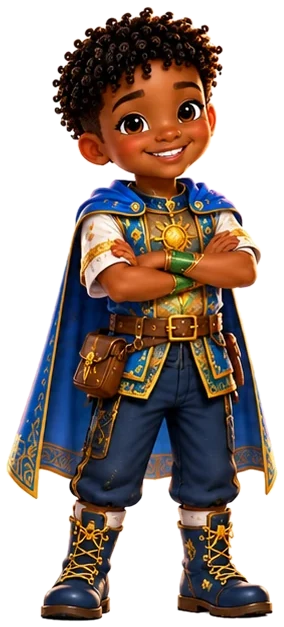
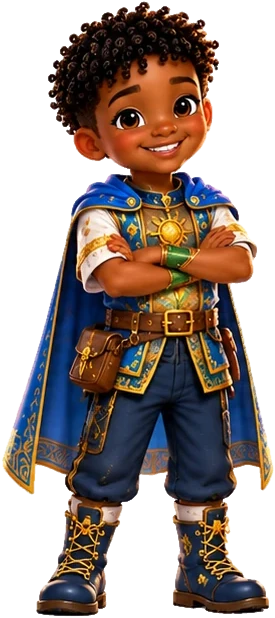
Characters: clean cutout edges; on-brand gold stage, nameplates, jewel cards

Changed region(s): [[0.0, 0.0, 1.0, 1.0], [0.3782, 0.5227, 0.4073, 0.5841], [0.4655, 0.4612, 0.4945, 0.4919]]

diff --git a/characters.html b/characters.html
@@ -18,7 +18,7 @@
 <link rel="preconnect" href="https://fonts.gstatic.com" crossorigin>
 <link rel="stylesheet" href="https://fonts.googleapis.com/css2?family=Cinzel:wght@600;700;800&amp;family=Cormorant+Garamond:ital,wght@0,500;0,600;1,600;1,700&amp;family=DM+Sans:wght@400;500;700&amp;display=swap">
 
-<link rel="stylesheet" href="styles.css?v=a553c166">
+<link rel="stylesheet" href="styles.css?v=ef1f42a5">
 <script>document.documentElement.classList.add('js')</script>
 </head>
 <body>
@@ -58,78 +58,78 @@
   </div>
   <div class="clouds" aria-hidden="true"></div>
 </section>
-<section class="section lineup-section" aria-labelledby="lineup-title">
+<section class="section lineup-section plum starfield on-dark" aria-labelledby="lineup-title">
   <div class="wrap">
     <header class="section-head reveal">
       <p class="eyebrow">The whole crew</p>
-      <h2 id="lineup-title" class="display-l">Together, they light the way</h2>
+      <h2 id="lineup-title" class="display-l gold-type">Together, they light the way</h2>
       <p class="lede">Tap anyone to meet them.</p>
     </header>
-    <ol class="lineup"><li class="actor" style="--h:665;--c:#1f7a3a;--i:0">
-      <a href="#makeda" aria-label="Meet Makeda"><img src="assets/cast/makeda.webp" width="272" height="665" alt="Makeda in a leaf skirt and adventure boots, wearing her golden crown and satchel."></a>
-      <img class="actor-label" src="assets/cast/makeda-label.webp" alt="Makeda" width="180" height="92">
-    </li><li class="actor" style="--h:602;--c:#d4177f;--i:1">
-      <a href="#sahara" aria-label="Meet Sahara"><img src="assets/cast/sahara.webp" width="265" height="602" alt="Sahara in a bright patterned dress and purple backpack, smiling with her hands clasped."></a>
-      <img class="actor-label" src="assets/cast/sahara-label.webp" alt="Sahara" width="180" height="92">
-    </li><li class="actor" style="--h:393;--c:#e07d10;--i:2">
-      <a href="#faith" aria-label="Meet Faith"><img src="assets/cast/faith.webp" width="221" height="393" alt="Faith, a golden lion cub wearing a pink jeweled crown and heart collar."></a>
-      <img class="actor-label" src="assets/cast/faith-label.webp" alt="Faith" width="180" height="92">
-    </li><li class="actor" style="--h:703;--c:#6a1fb0;--i:3">
-      <a href="#rocky" aria-label="Meet Rocky"><img src="assets/cast/rocky.webp" width="344" height="703" alt="Auntie Rocky in a flowing lavender gown with long red braids, hands on her heart."></a>
-      <img class="actor-label" src="assets/cast/rocky-label.webp" alt="Rocky" width="180" height="92">
-    </li><li class="actor" style="--h:534;--c:#2c8a2c;--i:4">
-      <a href="#milo" aria-label="Meet Milo"><img src="assets/cast/milo.webp" width="261" height="534" alt="Milo in a green top hat, vest, and bow tie, dancing with a big grin."></a>
-      <img class="actor-label" src="assets/cast/milo-label.webp" alt="Milo" width="180" height="92">
-    </li><li class="actor" style="--h:627;--c:#1f5fbf;--i:5">
-      <a href="#apollo" aria-label="Meet Apollo"><img src="assets/cast/apollo.webp" width="284" height="627" alt="Apollo in a blue and gold explorer cape with arms crossed, smiling."></a>
-      <img class="actor-label" src="assets/cast/apollo-label.webp" alt="Apollo" width="180" height="92">
-    </li><li class="actor" style="--h:301;--c:#7a4a1a;--i:6">
-      <a href="#kito" aria-label="Meet Kito"><img src="assets/cast/kito.webp" width="247" height="301" alt="Kito, a colorful blue and orange bird, flying with wings spread."></a>
-      <img class="actor-label" src="assets/cast/kito-label.webp" alt="Kito" width="180" height="92">
+    <ol class="lineup"><li class="actor" style="--h:657;--c:#1f7a3a;--i:0">
+      <a href="#makeda" aria-label="Meet Makeda"><img src="assets/cast/makeda.webp" width="268" height="657" alt="Makeda in a leaf skirt and adventure boots, wearing her golden crown and satchel."></a>
+      <span class="nameplate"><img src="assets/cast/makeda-label.webp" alt="Makeda" width="180" height="92"></span>
+    </li><li class="actor" style="--h:594;--c:#d4177f;--i:1">
+      <a href="#sahara" aria-label="Meet Sahara"><img src="assets/cast/sahara.webp" width="256" height="594" alt="Sahara in a bright patterned dress and purple backpack, smiling with her hands clasped."></a>
+      <span class="nameplate"><img src="assets/cast/sahara-label.webp" alt="Sahara" width="180" height="92"></span>
+    </li><li class="actor" style="--h:383;--c:#e07d10;--i:2">
+      <a href="#faith" aria-label="Meet Faith"><img src="assets/cast/faith.webp" width="211" height="383" alt="Faith, a golden lion cub wearing a pink jeweled crown and heart collar."></a>
+      <span class="nameplate"><img src="assets/cast/faith-label.webp" alt="Faith" width="180" height="92"></span>
+    </li><li class="actor" style="--h:695;--c:#6a1fb0;--i:3">
+      <a href="#rocky" aria-label="Meet Rocky"><img src="assets/cast/rocky.webp" width="335" height="695" alt="Auntie Rocky in a flowing lavender gown with long red braids, hands on her heart."></a>
+      <span class="nameplate"><img src="assets/cast/rocky-label.webp" alt="Rocky" width="180" height="92"></span>
+    </li><li class="actor" style="--h:526;--c:#2c8a2c;--i:4">
+      <a href="#milo" aria-label="Meet Milo"><img src="assets/cast/milo.webp" width="252" height="526" alt="Milo in a green top hat, vest, and bow tie, dancing with a big grin."></a>
+      <span class="nameplate"><img src="assets/cast/milo-label.webp" alt="Milo" width="180" height="92"></span>
+    </li><li class="actor" style="--h:618;--c:#1f5fbf;--i:5">
+      <a href="#apollo" aria-label="Meet Apollo"><img src="assets/cast/apollo.webp" width="275" height="618" alt="Apollo in a blue and gold explorer cape with arms crossed, smiling."></a>
+      <span class="nameplate"><img src="assets/cast/apollo-label.webp" alt="Apollo" width="180" height="92"></span>
+    </li><li class="actor" style="--h:291;--c:#7a4a1a;--i:6">
+      <a href="#kito" aria-label="Meet Kito"><img src="assets/cast/kito.webp" width="238" height="291" alt="Kito, a colorful blue and orange bird, flying with wings spread."></a>
+      <span class="nameplate"><img src="assets/cast/kito-label.webp" alt="Kito" width="180" height="92"></span>
     </li></ol>
   </div>
 </section>
 
-<section class="section plum starfield on-dark" aria-labelledby="roster-title">
+<section class="section parchment" aria-labelledby="roster-title">
   <div class="wrap">
     <header class="section-head reveal">
       <p class="eyebrow">The characters</p>
-      <h2 id="roster-title" class="display-l gold-type">Get to know them</h2>
+      <h2 id="roster-title" class="display-l">Get to know them</h2>
       <div class="flourish" aria-hidden="true"><span></span></div>
     </header>
     <ul class="cast-grid" data-stagger><li class="cast-card reveal" id="makeda" style="--c:#1f7a3a">
-      <div class="cast-stage"><span class="cast-glow" aria-hidden="true"></span><img src="assets/cast/makeda.webp" width="272" height="665" alt="Makeda in a leaf skirt and adventure boots, wearing her golden crown and satchel." loading="lazy" decoding="async"></div>
-      <img class="cast-label" src="assets/cast/makeda-label.webp" alt="" width="180" height="92">
+      <div class="cast-stage"><span class="cast-glow" aria-hidden="true"></span><img src="assets/cast/makeda.webp" width="268" height="657" alt="Makeda in a leaf skirt and adventure boots, wearing her golden crown and satchel." loading="lazy" decoding="async"></div>
+      <span class="nameplate"><img src="assets/cast/makeda-label.webp" alt="" width="180" height="92"></span>
       <h3 class="sr-only">Makeda</h3>
       <p class="role">The curious explorer</p><p class="bio">Joyful, kind-hearted, and brave enough to step through every new door &mdash; and to bring others along. Her name means greatness.</p>
     </li><li class="cast-card reveal" id="sahara" style="--c:#d4177f">
-      <div class="cast-stage"><span class="cast-glow" aria-hidden="true"></span><img src="assets/cast/sahara.webp" width="265" height="602" alt="Sahara in a bright patterned dress and purple backpack, smiling with her hands clasped." loading="lazy" decoding="async"></div>
-      <img class="cast-label" src="assets/cast/sahara-label.webp" alt="" width="180" height="92">
+      <div class="cast-stage"><span class="cast-glow" aria-hidden="true"></span><img src="assets/cast/sahara.webp" width="256" height="594" alt="Sahara in a bright patterned dress and purple backpack, smiling with her hands clasped." loading="lazy" decoding="async"></div>
+      <span class="nameplate"><img src="assets/cast/sahara-label.webp" alt="" width="180" height="92"></span>
       <h3 class="sr-only">Sahara</h3>
       <p class="role">Makeda&rsquo;s best friend</p><p class="bio">One of Makeda&rsquo;s closest friends, Sahara keeps every adventure fun &mdash; reminding her to laugh, loosen up, and not take things too seriously.</p>
     </li><li class="cast-card reveal" id="faith" style="--c:#e07d10">
-      <div class="cast-stage"><span class="cast-glow" aria-hidden="true"></span><img src="assets/cast/faith.webp" width="221" height="393" alt="Faith, a golden lion cub wearing a pink jeweled crown and heart collar." loading="lazy" decoding="async"></div>
-      <img class="cast-label" src="assets/cast/faith-label.webp" alt="" width="180" height="92">
+      <div class="cast-stage"><span class="cast-glow" aria-hidden="true"></span><img src="assets/cast/faith.webp" width="211" height="383" alt="Faith, a golden lion cub wearing a pink jeweled crown and heart collar." loading="lazy" decoding="async"></div>
+      <span class="nameplate"><img src="assets/cast/faith-label.webp" alt="" width="180" height="92"></span>
       <h3 class="sr-only">Faith</h3>
       <p class="role">The lion cub companion</p><p class="bio">Playful, loyal, and full of heart &mdash; Makeda&rsquo;s best friend on every adventure.</p>
     </li><li class="cast-card reveal" id="rocky" style="--c:#6a1fb0">
-      <div class="cast-stage"><span class="cast-glow" aria-hidden="true"></span><img src="assets/cast/rocky.webp" width="344" height="703" alt="Auntie Rocky in a flowing lavender gown with long red braids, hands on her heart." loading="lazy" decoding="async"></div>
-      <img class="cast-label" src="assets/cast/rocky-label.webp" alt="" width="180" height="92">
+      <div class="cast-stage"><span class="cast-glow" aria-hidden="true"></span><img src="assets/cast/rocky.webp" width="335" height="695" alt="Auntie Rocky in a flowing lavender gown with long red braids, hands on her heart." loading="lazy" decoding="async"></div>
+      <span class="nameplate"><img src="assets/cast/rocky-label.webp" alt="" width="180" height="92"></span>
       <h3 class="sr-only">Rocky</h3>
       <p class="role">Auntie Rocky</p><p class="bio">Her love lives on in every lesson, every dream, and every heart. Her garden teaches that love is the root of strong families.</p>
     </li><li class="cast-card reveal" id="milo" style="--c:#2c8a2c">
-      <div class="cast-stage"><span class="cast-glow" aria-hidden="true"></span><img src="assets/cast/milo.webp" width="261" height="534" alt="Milo in a green top hat, vest, and bow tie, dancing with a big grin." loading="lazy" decoding="async"></div>
-      <img class="cast-label" src="assets/cast/milo-label.webp" alt="" width="180" height="92">
+      <div class="cast-stage"><span class="cast-glow" aria-hidden="true"></span><img src="assets/cast/milo.webp" width="252" height="526" alt="Milo in a green top hat, vest, and bow tie, dancing with a big grin." loading="lazy" decoding="async"></div>
+      <span class="nameplate"><img src="assets/cast/milo-label.webp" alt="" width="180" height="92"></span>
       <h3 class="sr-only">Milo</h3>
       <p class="role">Makeda&rsquo;s cousin</p><p class="bio">Music, dancing, and big-cousin energy &mdash; Milo helps everyone find their beat.</p>
     </li><li class="cast-card reveal" id="apollo" style="--c:#1f5fbf">
-      <div class="cast-stage"><span class="cast-glow" aria-hidden="true"></span><img src="assets/cast/apollo.webp" width="284" height="627" alt="Apollo in a blue and gold explorer cape with arms crossed, smiling." loading="lazy" decoding="async"></div>
-      <img class="cast-label" src="assets/cast/apollo-label.webp" alt="" width="180" height="92">
+      <div class="cast-stage"><span class="cast-glow" aria-hidden="true"></span><img src="assets/cast/apollo.webp" width="275" height="618" alt="Apollo in a blue and gold explorer cape with arms crossed, smiling." loading="lazy" decoding="async"></div>
+      <span class="nameplate"><img src="assets/cast/apollo-label.webp" alt="" width="180" height="92"></span>
       <h3 class="sr-only">Apollo</h3>
       <p class="role">Makeda&rsquo;s brother</p><p class="bio">A bright, big-hearted guide who knows that every kind of mind has something brilliant to give.</p>
     </li><li class="cast-card reveal" id="kito" style="--c:#7a4a1a">
-      <div class="cast-stage"><span class="cast-glow" aria-hidden="true"></span><img src="assets/cast/kito.webp" width="247" height="301" alt="Kito, a colorful blue and orange bird, flying with wings spread." loading="lazy" decoding="async"></div>
-      <img class="cast-label" src="assets/cast/kito-label.webp" alt="" width="180" height="92">
+      <div class="cast-stage"><span class="cast-glow" aria-hidden="true"></span><img src="assets/cast/kito.webp" width="238" height="291" alt="Kito, a colorful blue and orange bird, flying with wings spread." loading="lazy" decoding="async"></div>
+      <span class="nameplate"><img src="assets/cast/kito-label.webp" alt="" width="180" height="92"></span>
       <h3 class="sr-only">Kito</h3>
       <p class="role">Makeda&rsquo;s bird friend</p><p class="bio">Bright feathers that shimmer like the sunset &mdash; Kito is always first to spot the way.</p>
     </li></ul>
@@ -151,7 +151,7 @@
     <small>&copy; 2026 Adventure with Makeda. Stories by Angel Washington. All rights reserved.</small>
   </div>
 </footer>
-<script src="site.js?v=a553c166" defer></script>
-<script src="enchant.js?v=a553c166" defer></script>
+<script src="site.js?v=ef1f42a5" defer></script>
+<script src="enchant.js?v=ef1f42a5" defer></script>
 </body>
 </html>

diff --git a/styles.css b/styles.css
@@ -1093,3 +1093,34 @@ p { margin: 0 0 1em; }
 .cast-stage img { height: 100%; max-height: 260px; width: auto; max-width: 100%; object-fit: contain; }
 @media (max-width: 1080px) { .cast-grid > li { flex-basis: calc((100% - clamp(1.4rem, 3vw, 2.4rem)) / 2); } }
 @media (max-width: 520px) { .cast-grid > li { flex-basis: 100%; } .cast-stage { height: 240px; } }
+
+/* ---------- characters: on-brand stage, nameplates, jewel cards ---------- */
+.lineup-section { background: radial-gradient(60% 50% at 50% 70%, rgba(255, 200, 120, .22), transparent 70%), radial-gradient(90% 70% at 50% 0%, #4a1870 0%, var(--plum-900) 60%, var(--plum-950) 100%); }
+.lineup-section .section-head h2 { color: var(--gold-hi); }
+.lineup-section .lede { color: #e5d3b5; }
+.lineup { padding-bottom: 40px; }
+.lineup::before { /* gold stage */
+  bottom: 44px; height: 46px; border-radius: 50%; filter: none;
+  background: radial-gradient(50% 50% at 50% 40%, #ffe7a0 0%, #e8ac35 45%, #8a4f0c 80%, transparent 82%);
+  box-shadow: 0 0 60px rgba(255, 200, 110, .45); opacity: .9; }
+.lineup::after { /* spotlight cone */
+  content: ""; position: absolute; left: 10%; right: 10%; top: -40px; bottom: 60px; z-index: 0; pointer-events: none;
+  background: radial-gradient(50% 60% at 50% 100%, rgba(255, 236, 180, .22), transparent 70%); }
+.actor a img { filter: drop-shadow(0 18px 14px rgba(0, 0, 0, .5)); }
+@media (hover: hover) { .actor a:hover img { filter: drop-shadow(0 26px 20px rgba(0, 0, 0, .55)) drop-shadow(0 0 26px color-mix(in srgb, var(--c) 60%, transparent)); } }
+.nameplate { display: inline-grid; place-items: center; margin-top: 14px; padding: 6px 14px 4px; border-radius: 999px; position: relative; z-index: 2;
+  background: linear-gradient(180deg, #fffaf0, #f6e2b6); box-shadow: 0 0 0 2px #fff, 0 0 0 5px color-mix(in srgb, var(--c) 60%, #e2a83a), 0 10px 18px rgba(0, 0, 0, .35); }
+.nameplate img { width: clamp(84px, 8.5vw, 128px); height: auto; }
+.actor-label { display: none; }
+
+.cast-card { color: #f6ead0;
+  background: radial-gradient(90% 60% at 50% 30%, color-mix(in srgb, var(--c) 42%, #2a0d55) 0%, #2a0d55 60%, #1a0636 100%);
+  box-shadow: 0 0 0 3px #ffe7a0, 0 0 0 8px #e2a83a, 0 0 0 10px #7a440c, 0 30px 50px -16px rgba(60, 20, 0, .55); }
+.cast-card .role { color: #ffd0ec; }
+.cast-card .bio { color: #eadcf0; }
+.cast-card .nameplate { margin: 1rem 0 .6rem; }
+.cast-card .nameplate img { width: 150px; }
+.cast-glow { background: radial-gradient(circle, color-mix(in srgb, var(--c, #f5c451) 70%, #fff 10%), transparent 66%); opacity: .75; }
+.cast-stage img { filter: drop-shadow(0 16px 14px rgba(0, 0, 0, .5)); }
+.cast-stage::after { content: ""; position: absolute; left: 50%; bottom: -6px; width: 150px; height: 18px; transform: translateX(-50%); border-radius: 50%; background: radial-gradient(50% 50%, rgba(255, 215, 120, .7), transparent 75%); }
+@media (max-width: 860px) { .nameplate img { width: 88px; } .lineup::after { display: none; } }

diff --git a/index.html b/index.html
@@ -18,7 +18,7 @@
 <link rel="preconnect" href="https://fonts.gstatic.com" crossorigin>
 <link rel="stylesheet" href="https://fonts.googleapis.com/css2?family=Cinzel:wght@600;700;800&amp;family=Cormorant+Garamond:ital,wght@0,500;0,600;1,600;1,700&amp;family=DM+Sans:wght@400;500;700&amp;display=swap">
 <link rel="preload" as="image" href="assets/logo-1200.webp" fetchpriority="high">
-<link rel="stylesheet" href="styles.css?v=a553c166">
+<link rel="stylesheet" href="styles.css?v=ef1f42a5">
 <script>document.documentElement.classList.add('js')</script>
 </head>
 <body>
@@ -228,7 +228,7 @@
     <small>&copy; 2026 Adventure with Makeda. Stories by Angel Washington. All rights reserved.</small>
   </div>
 </footer>
-<script src="site.js?v=a553c166" defer></script>
-<script src="enchant.js?v=a553c166" defer></script>
+<script src="site.js?v=ef1f42a5" defer></script>
+<script src="enchant.js?v=ef1f42a5" defer></script>
 </body>
 </html>

diff --git a/parents.html b/parents.html
@@ -18,7 +18,7 @@
 <link rel="preconnect" href="https://fonts.gstatic.com" crossorigin>
 <link rel="stylesheet" href="https://fonts.googleapis.com/css2?family=Cinzel:wght@600;700;800&amp;family=Cormorant+Garamond:ital,wght@0,500;0,600;1,600;1,700&amp;family=DM+Sans:wght@400;500;700&amp;display=swap">
 
-<link rel="stylesheet" href="styles.css?v=a553c166">
+<link rel="stylesheet" href="styles.css?v=ef1f42a5">
 <script>document.documentElement.classList.add('js')</script>
 </head>
 <body>
@@ -109,7 +109,7 @@
     <small>&copy; 2026 Adventure with Makeda. Stories by Angel Washington. All rights reserved.</small>
   </div>
 </footer>
-<script src="site.js?v=a553c166" defer></script>
-<script src="enchant.js?v=a553c166" defer></script>
+<script src="site.js?v=ef1f42a5" defer></script>
+<script src="enchant.js?v=ef1f42a5" defer></script>
 </body>
 </html>

diff --git a/song.html b/song.html
@@ -18,7 +18,7 @@
 <link rel="preconnect" href="https://fonts.gstatic.com" crossorigin>
 <link rel="stylesheet" href="https://fonts.googleapis.com/css2?family=Cinzel:wght@600;700;800&amp;family=Cormorant+Garamond:ital,wght@0,500;0,600;1,600;1,700&amp;family=DM+Sans:wght@400;500;700&amp;display=swap">
 
-<link rel="stylesheet" href="styles.css?v=a553c166">
+<link rel="stylesheet" href="styles.css?v=ef1f42a5">
 <script>document.documentElement.classList.add('js')</script>
 </head>
 <body>
@@ -114,7 +114,7 @@
     <small>&copy; 2026 Adventure with Makeda. Stories by Angel Washington. All rights reserved.</small>
   </div>
 </footer>
-<script src="site.js?v=a553c166" defer></script>
-<script src="enchant.js?v=a553c166" defer></script>
+<script src="site.js?v=ef1f42a5" defer></script>
+<script src="enchant.js?v=ef1f42a5" defer></script>
 </body>
 </html>

diff --git a/story.html b/story.html
@@ -18,7 +18,7 @@
 <link rel="preconnect" href="https://fonts.gstatic.com" crossorigin>
 <link rel="stylesheet" href="https://fonts.googleapis.com/css2?family=Cinzel:wght@600;700;800&amp;family=Cormorant+Garamond:ital,wght@0,500;0,600;1,600;1,700&amp;family=DM+Sans:wght@400;500;700&amp;display=swap">
 
-<link rel="stylesheet" href="styles.css?v=a553c166">
+<link rel="stylesheet" href="styles.css?v=ef1f42a5">
 <script>document.documentElement.classList.add('js')</script>
 </head>
 <body>
@@ -129,7 +129,7 @@
     <small>&copy; 2026 Adventure with Makeda. Stories by Angel Washington. All rights reserved.</small>
   </div>
 </footer>
-<script src="site.js?v=a553c166" defer></script>
-<script src="enchant.js?v=a553c166" defer></script>
+<script src="site.js?v=ef1f42a5" defer></script>
+<script src="enchant.js?v=ef1f42a5" defer></script>
 </body>
 </html>

diff --git a/world.html b/world.html
@@ -18,7 +18,7 @@
 <link rel="preconnect" href="https://fonts.gstatic.com" crossorigin>
 <link rel="stylesheet" href="https://fonts.googleapis.com/css2?family=Cinzel:wght@600;700;800&amp;family=Cormorant+Garamond:ital,wght@0,500;0,600;1,600;1,700&amp;family=DM+Sans:wght@400;500;700&amp;display=swap">
 
-<link rel="stylesheet" href="styles.css?v=a553c166">
+<link rel="stylesheet" href="styles.css?v=ef1f42a5">
 <script>document.documentElement.classList.add('js')</script>
 </head>
 <body>
@@ -150,7 +150,7 @@
     <small>&copy; 2026 Adventure with Makeda. Stories by Angel Washington. All rights reserved.</small>
   </div>
 </footer>
-<script src="site.js?v=a553c166" defer></script>
-<script src="enchant.js?v=a553c166" defer></script>
+<script src="site.js?v=ef1f42a5" defer></script>
+<script src="enchant.js?v=ef1f42a5" defer></script>
 </body>
 </html>

diff --git a/sw.js b/sw.js
@@ -1,5 +1,5 @@
 // Pages: network-first. Assets: stale-while-revalidate, so updates land on the next visit.
-const CACHE = 'awm-multiverse-v13';
+const CACHE = 'awm-multiverse-v14';
 const CORE = [
   './', './index.html', './story.html', './world.html', './characters.html', './song.html', './parents.html',
   './styles.css', './site.js', './enchant.js', './manifest.json', './favicon.png',
